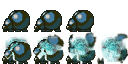
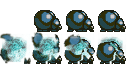
walker tweaks

diff --git a/src/game/EnemyWalker.cpp b/src/game/EnemyWalker.cpp
@@ -24,17 +24,17 @@ EnemyWalker::EnemyWalker()
 	Animation * tmp;
 	
 	tmp = addAnimation("walk");
-	tmp->addFrame(0, .2f);
-	tmp->addFrame(1, .2f);
+	tmp->addFrame(3, .2f);
 	tmp->addFrame(2, .2f);
 	tmp->addFrame(1, .2f);
+	tmp->addFrame(2, .2f);
 	tmp->setDoLoop(true);
 	
 	tmp = addAnimation("die");
-	tmp->addFrame(4, .07f);
-	tmp->addFrame(5, .07f);
-	tmp->addFrame(6, .07f);
 	tmp->addFrame(7, .07f);
+	tmp->addFrame(6, .07f);
+	tmp->addFrame(5, .07f);
+	tmp->addFrame(4, .07f);
 	
 	setCurrentAnimation("walk");
 }
@@ -52,6 +52,7 @@ void EnemyWalker::update(float dt) {
 		speed_y += speed_gravity*dt;
 		if(isGrounded()) speed_y = 0;
 		
+		/*
 		// Chase the player
 		float dx = g_player->pos_x - pos_x;
 		if (-vision_range < dx && dx < -vision_min_range) {
@@ -61,13 +62,15 @@ void EnemyWalker::update(float dt) {
 			speed_x = walk_speed;
 			facing_direction = FACING_LEFT;
 		}
-		updateSpriteFacing();
+		*/
+		if(facing_direction == FACING_LEFT) {
+			speed_x = -60.0f;
+		} else {
+			speed_x = 60.0f;
+		}
+		patrol(dt);
 		
-		float delta_x = speed_x*dt;
-		float delta_y = speed_y*dt;
-		move(delta_x, delta_y);
-		speed_x = delta_x / dt;
-		speed_y = delta_y / dt;
+		updateSpriteFacing();
 	
 		checkCollisions();
 	}

diff --git a/src/game/Enemy.cpp b/src/game/Enemy.cpp
@@ -28,3 +28,23 @@ void Enemy::collide(Actor& otherActor) {
 }
 
 
+void Enemy::patrol(float dt) {
+	float delta_x = speed_x * dt;
+	float delta_y = speed_y * dt;
+	
+	int check_pos = 12;
+	if(facing_direction == FACING_LEFT) check_pos = -check_pos;
+	if(move(delta_x, delta_y)) {
+		// Turn around if you run into something.
+		//cout << "obstructed\n";
+		flipDirection();
+	} else if(!game_map->isSolid(pos_x + check_pos, pos_y + yOrigin + 1)) {
+		// Turn around if there's a pit up ahead.
+		//cout << "pit\n";
+		//debugPixel.SetPosition(
+		//	0.5f + (int)(pos_x - game_map->cam_x),
+		//											 0.5f + (int)(pos_y - game_map->cam_y));
+		//checkGround = true;
+		flipDirection();
+	}
+}

diff --git a/src/game/Enemy.h b/src/game/Enemy.h
@@ -12,6 +12,10 @@ public:
 	virtual void collide(Actor& otherActor);
 
 	virtual bool isEnemy() { return true; }
+	
+	void patrol(float dt);
+protected:
+	float speed_x, speed_y;
 };
 
 

diff --git a/src/game/EnemyCentipede.h b/src/game/EnemyCentipede.h
@@ -31,7 +31,6 @@ public:
 	virtual void update(float dt);
 	virtual void onAnimationComplete(std::string anim);
 private:
-	float speed_x;
-	float speed_y;
+
 	float fly_speed;
 };

diff --git a/src/game/EnemyWalker.h b/src/game/EnemyWalker.h
@@ -12,6 +12,4 @@ public:
 	virtual void onAnimationComplete(std::string anim);
 private:
 	float walk_speed;
-	float speed_x;
-	float speed_y;
 }; 

diff --git a/src/game/EnemyFlyer.h b/src/game/EnemyFlyer.h
@@ -10,6 +10,4 @@ public:
 private:
 	int patrolCountdown, patrolLength;
 	float fly_speed;
-	float speed_x;
-	float speed_y;
 }; 
